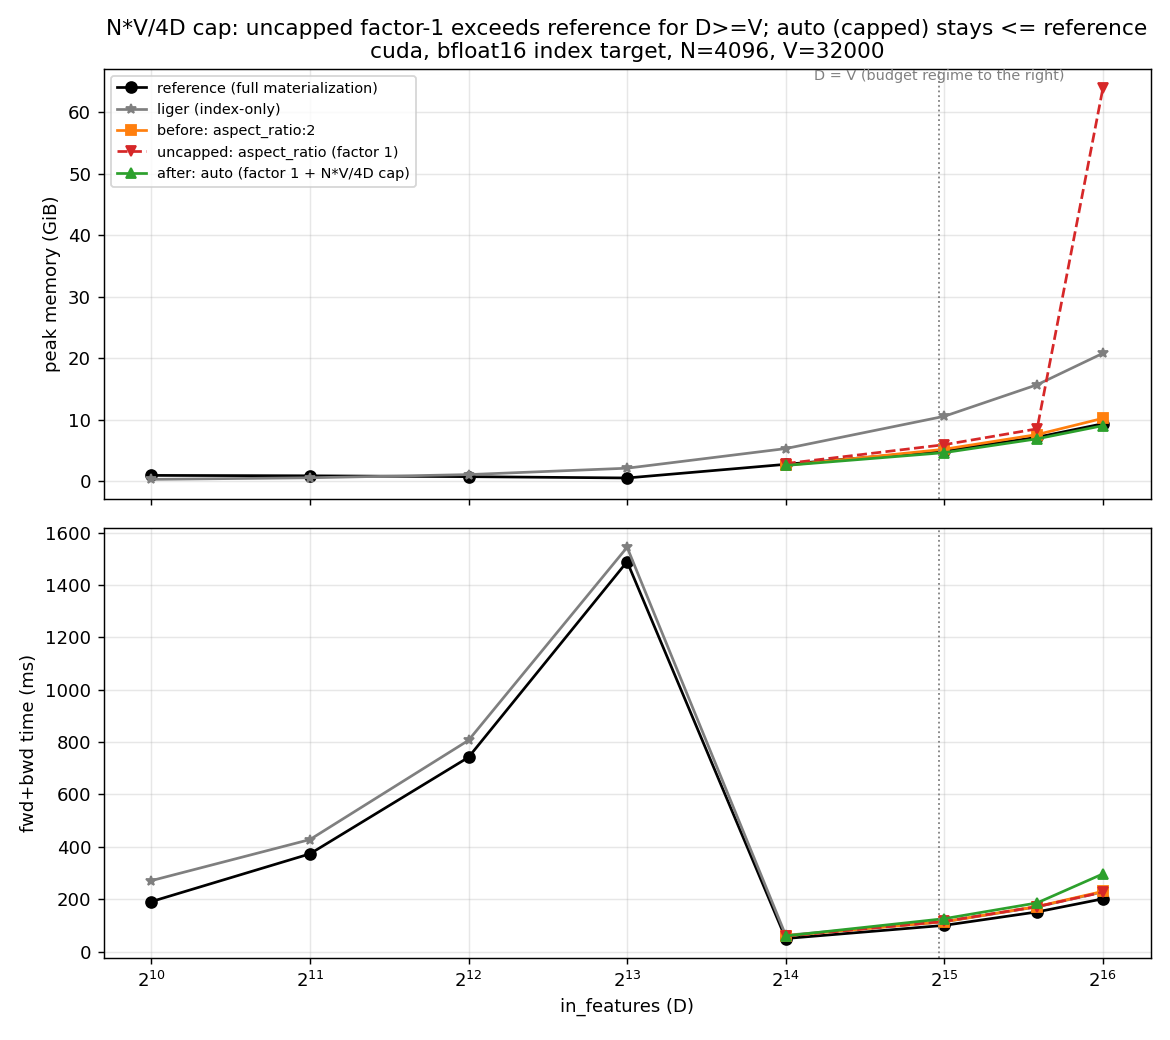
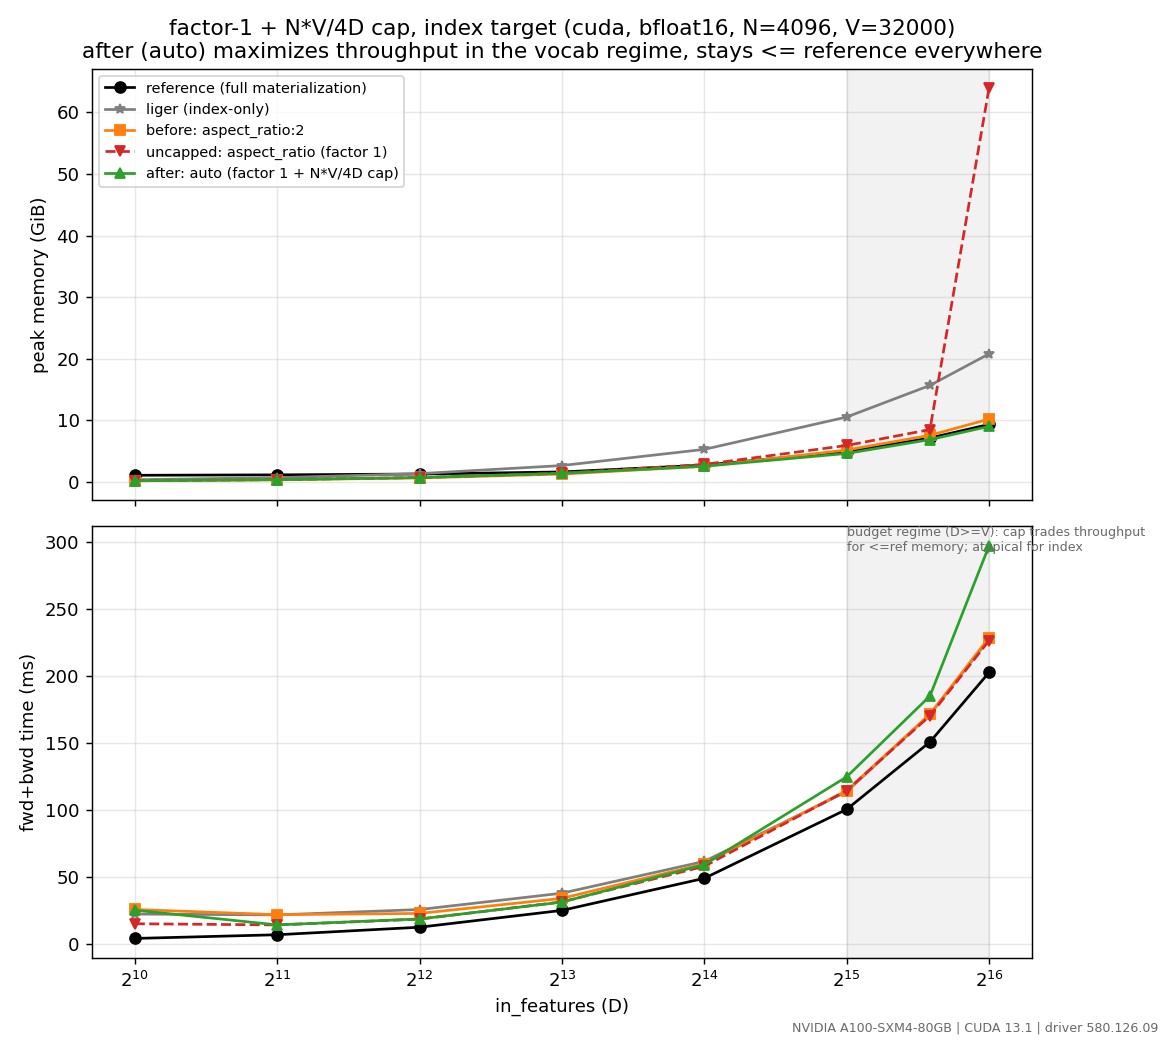
lce: PR performance section draft (index Fig A/B, env-stamped); regen V32000 diagnostic figure

diff --git a/pytorch/lce/PR_performance_section.md b/pytorch/lce/PR_performance_section.md
@@ -1,0 +1,43 @@
+## Performance
+
+All numbers: A100-SXM4-80GB, CUDA 13.1, driver 580.126.09, bf16, index targets, fwd+bwd median time / peak memory. Lines: **auto** = this PR's default (factor-1 chunk + `N*V/4D` cap), **ar:2** = the previous default (`aspect_ratio:2`), **liger** = liger-kernel's fused op, **reference** = full materialization (`options=None`).
+
+### Vocab regime (`num_classes >> in_features`) -- the LLM vocab-head case
+
+Sweeping `num_classes` at `num_tokens=4096`, `in_features=4096`:
+
+![throughput](ATTACH cap_before_after_bfloat16_cuda_N4096_D4096_Vsweep.png)
+
+`auto` is the fastest memory-saving path and the leanest, beating both the old `ar:2` default and liger, with the gap widening as the vocabulary grows:
+
+| num_classes | auto (this PR) | ar:2 (old) | liger | reference |
+|---|---|---|---|---|
+| 32000  | 19.0 ms / 0.70 GiB | 23.1 / 0.63 | 26.0 / 1.33 | 12.8 / 1.27 |
+| 65536  | 44.5 ms / 1.21 GiB | 63.8 / 1.14 | 79.5 / 2.61 | 27.5 / 2.55 |
+| 131072 | 125.8 ms / 2.21 GiB | 203.1 / 2.14 | 290.7 / 5.11 | 54.7 / 5.05 |
+
+At `num_classes=131072`, `auto` is ~1.6x faster than the old default and ~2.3x faster than liger, at ~43% of their peak memory. (liger's peak tracks full materialization here, so its memory advantage over reference is small; the chunked path's is large.) Reference is faster in raw time but uses ~2.3x the memory and stops being an option once the full logits do not fit.
+
+### Budget regime (`in_features >= num_classes`) -- atypical for index
+
+Here `aspect_ratio` degenerates to a single chunk whose peak would exceed reference. Sweeping `in_features` at `num_tokens=4096`, `num_classes=8192` (`in_features >= 8192` is the budget regime):
+
+![cap-safety](ATTACH cap_before_after_bfloat16_cuda_N4096_V8192.png)
+
+The `N*V/4D` cap keeps `auto` at or below the reference peak across the whole range, while uncapped factor-1, the old `ar:2` default, and liger all rise above it (peak memory, GiB):
+
+| in_features | auto | uncapped factor-1 | ar:2 | liger | reference |
+|---|---|---|---|---|---|
+| 8192 (=V) | 0.48 | 0.77 | 0.58 | 0.83 | 0.52 |
+| 16384     | 0.84 | 1.33 | 1.05 | 1.58 | 0.89 |
+| 32768     | 1.59 | 2.45 | 2.11 | 3.08 | 1.64 |
+
+`auto` is the only configuration that never exceeds reference. The cap costs some throughput here (more, smaller chunks) -- the intended memory-safety tradeoff in a regime that index workloads (vocab heads, `V >> D`) do not operate in.
+
+### Probability targets
+
+Probability targets already resolved to factor 1; this PR adds the analogous `N/2` cap on the compact path, so their throughput is unchanged and their peak likewise stays at or below reference.
+
+### Accuracy
+
+Unchanged. The chunk-size change shifts the per-`(dtype, policy)` gradient ULP, so the accuracy caps in `test_nn.py` were re-measured across CPU, CUDA, ROCm, and MPS -- every leg stays within the existing caps, so no cap values changed.
